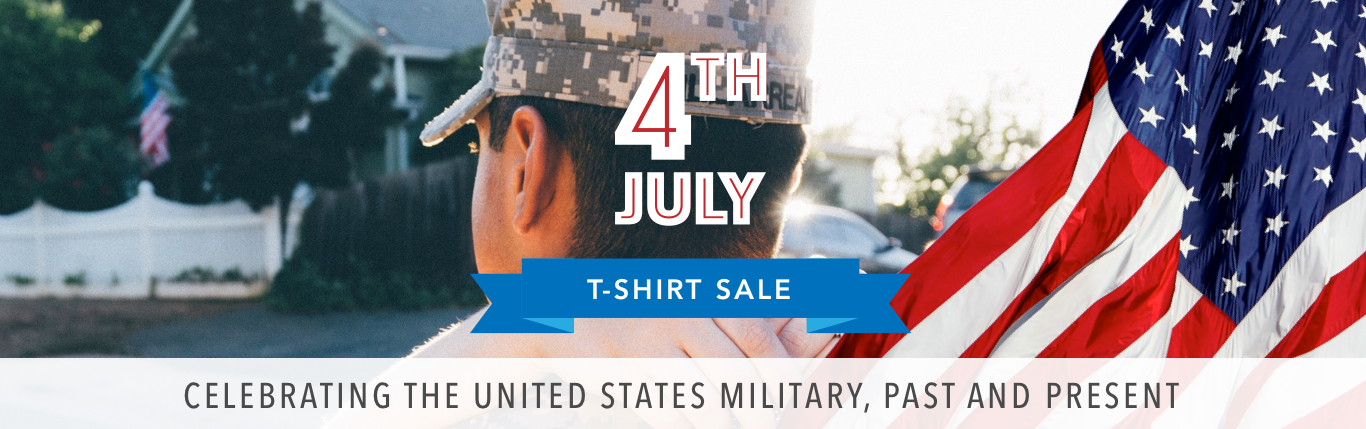
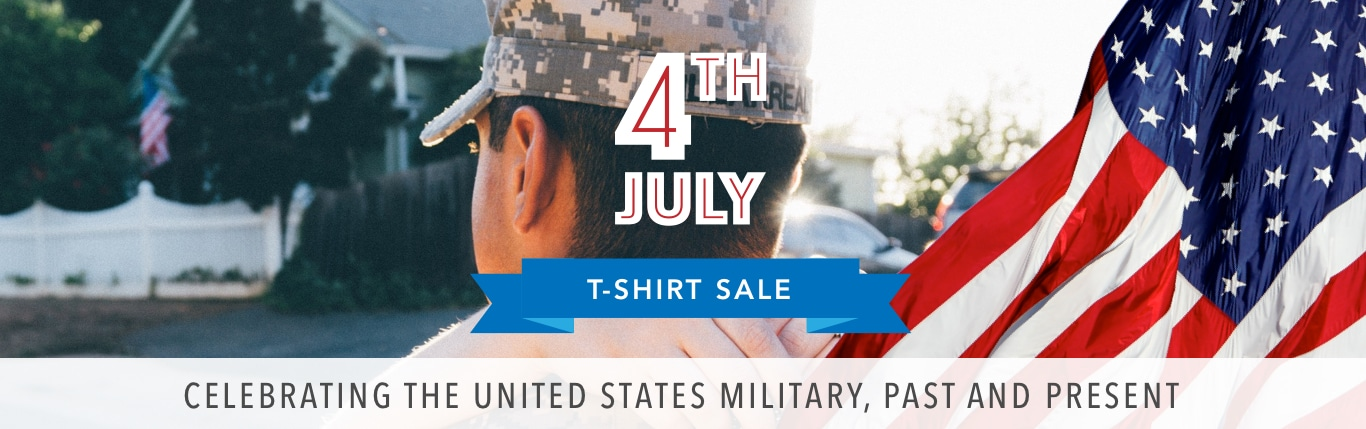
image update

diff --git a/amazon-affiliate-page (tshirt)/index.html b/amazon-affiliate-page (tshirt)/index.html
@@ -23,7 +23,7 @@
 
     <div id="title" > 
         <div id="wrapper">
-    <img id="header" style="margin-top: -30px;" src="images/portfolio/Header.jpg"/>
+    <img id="header" style="margin-top: -30px;" src="images/portfolio/HEADER.jpg"/>
         
         </div>
     
